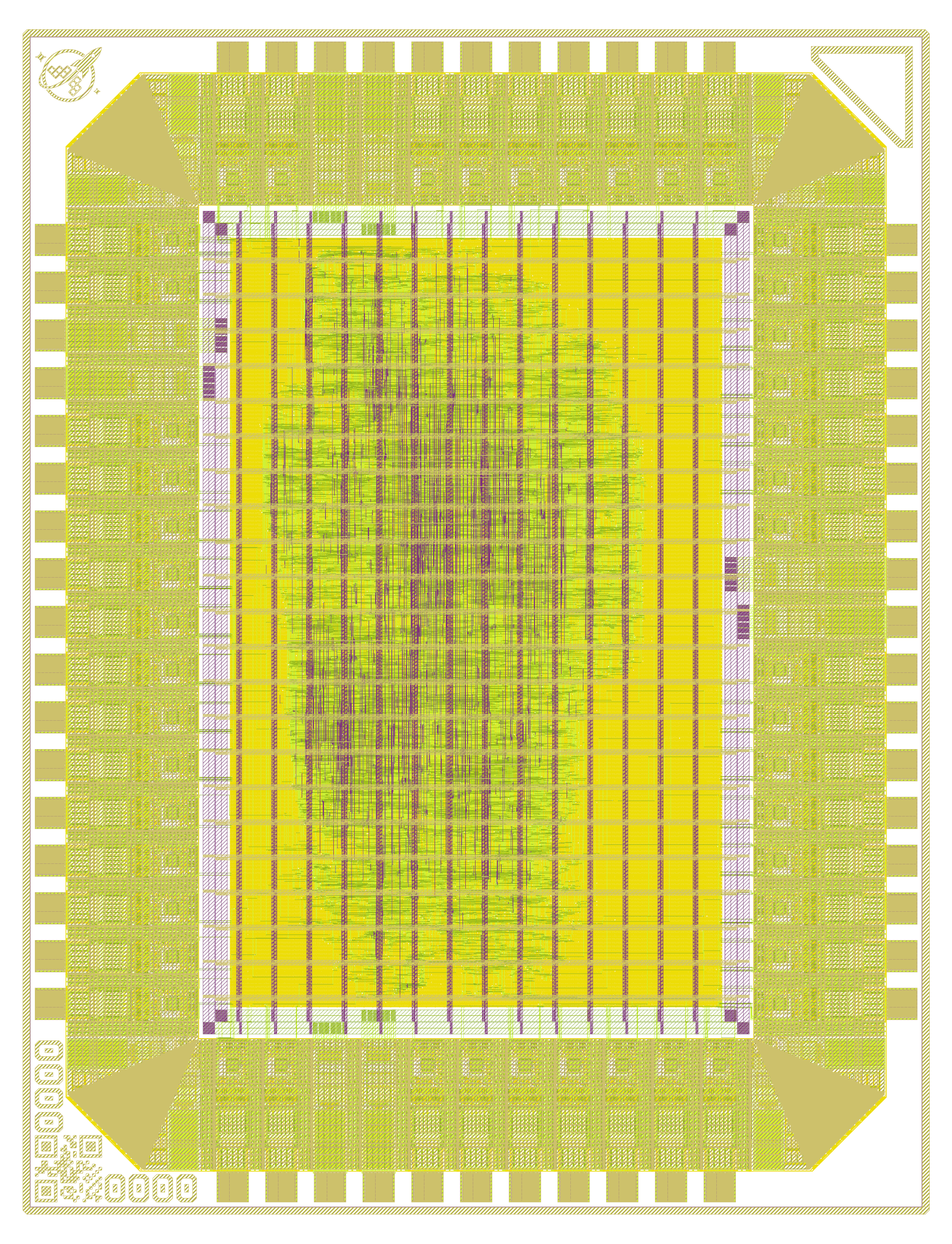
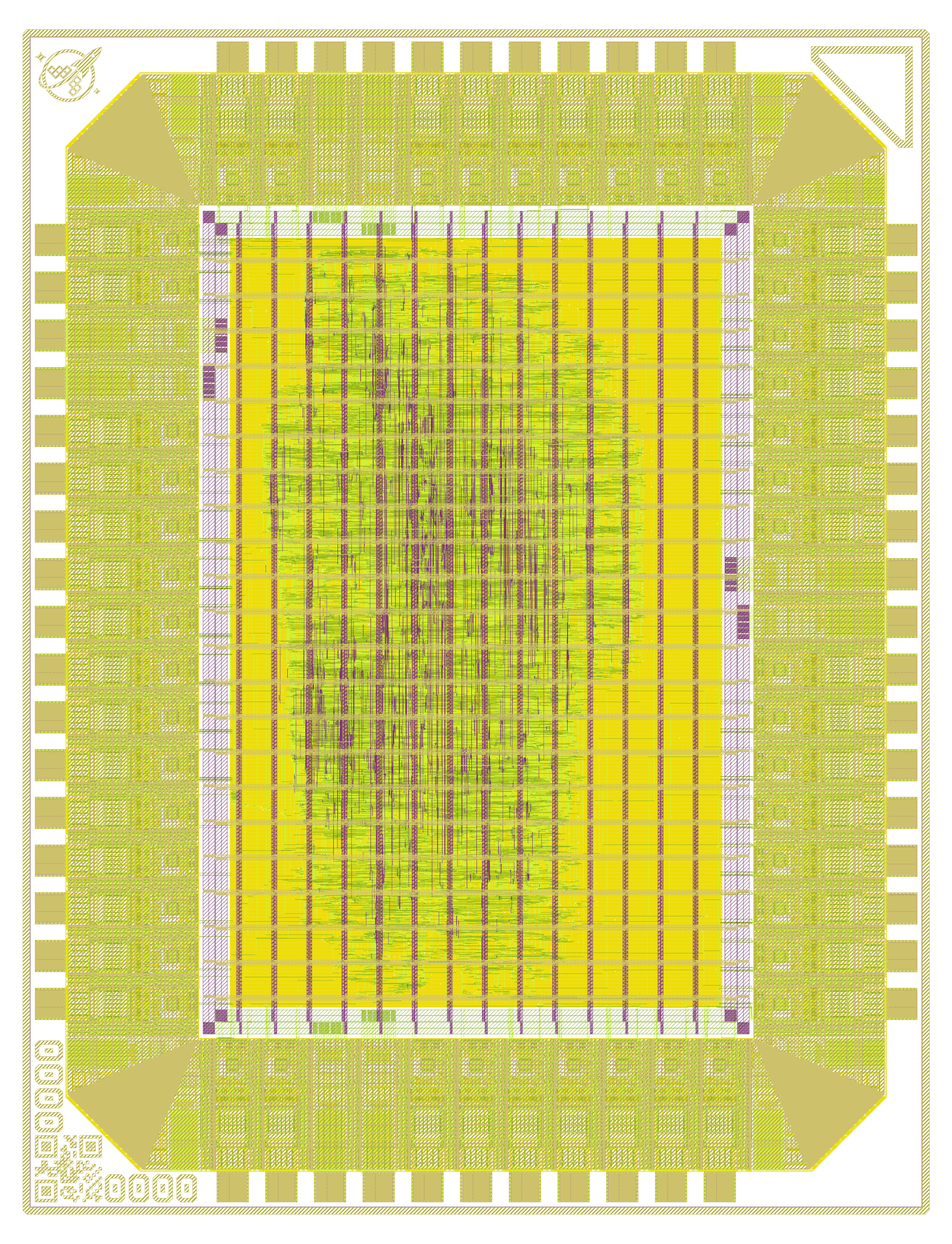
Precheck in its own Nix shell; README results from the run at 8981221
wafer.space's precheck needs qrcode, pillow and procps, which the template's
shell lacks, and a --dir that exists: make precheck now creates it and runs
precheck.py in the precheck repository's own flake shell (pinned by its
commit; its LibreLane is the template's). CI calls it outside the template's
shell. The first CI run of the chip passed everything before it.

README: the flow's results at 8981221 (local and CI agree): 10,756 cells,
243k um2, setup +8.11 ns at tt, -3.95 ns at ss with max wires (about 22 MHz),
hold +0.26 ns or more, sign-off clean, the 4 MHz NMOS pin timing passing all
47 parameters at every corner; against ws0's quarter. The layout image is
that run's. transistor.yml gives the extraction job GitHub's full 6 hours.

Claude-Session: https://claude.ai/code/session_014XmizspwRWA9SEyPJ1W1Jg

diff --git a/README.md b/README.md
@@ -63,22 +63,36 @@ the two cells share their footprint and pins, so the pad keeps its place.
 
 ## Results
 
-A local run of `make librelane` on 2026-10-26, with RESET still on an `in_c`
-pad and before the SDC held WAIT to the datasheet's hold at the CLK pin (CI
-repeats the flow on every push and prints its sign-off and the pin timing in
-the run's summary):
+A local run of `make librelane` on 2026-10-26 at `8981221` (CI repeats the
+flow on every push and prints its sign-off in the run's summary):
 
 | | |
 |---|---|
-| Logic | 10,617 cells, 241k µm² (14 % of the core), 479 flip-flops |
-| Setup slack, 40 ns | typical +8.12 ns · slow -1.73 ns (max wires -3.45) · fast +12.37 ns |
-| Hold slack | +0.31 ns (every corner positive) |
-| Fastest clock | typical ≥ 25 MHz; slow corner (125 °C, 4.5 V) about 21 MHz |
-| Sign-off | route DRC 0, Magic DRC 0, KLayout DRC 0, LVS 0, antenna 0 |
-| NMOS Z80 pin timing, 4 MHz | every parameter met at every corner but ThWAIT(Cf), WAIT's hold at CLK's falling edge (4.8-5.6 ns needed, 0 allowed): `librelane/chip_top.sdc` now constrains it, and CI checks all of them |
+| Logic | 10,756 cells, 243k µm² (14 % of the core), 479 flip-flops |
+| Setup slack, 40 ns | typical +8.11 ns · slow −1.99 ns (max wires −3.95) · fast +11.07 ns |
+| Hold slack | +0.26 ns or more at every corner |
+| Fastest clock | typical: 25 MHz with 8 ns to spare; slow corner (125 °C, 4.5 V, max wires): about 22 MHz |
+| Sign-off | route DRC 0, Magic DRC 0, KLayout DRC 0, LVS 0, antenna 0, XOR 0 |
+| NMOS Z80 pin timing, 4 MHz | PASS at the typical, slow and fast corners: all 47 parameters (`make pin-timing`) |
 
-Against ws0's quarter slot with RZ80 (9-track cells, 24 mA fast pads,
-pins held to the template's 25 MHz budget): about 13 % less logic area (241k against 276k µm²: the 7-track cells), and at the slow corner about 21 MHz against 23 MHz; ws0's quarter signed off at +4.9 ns at the typical corner, this one at +8.1 ns, the bus pads timed against the datasheet instead.
+The flow signs setup off at the typical corner, as the template does, and
+holds at every corner; the slow corner is shown for what it is. At the slow
+corner the half-cycle paths (launched on one clock edge, caught on the
+other) need 44.8 ns, the whole-cycle ones 44.0 ns.
+
+The pins, against the Z8400's AC characteristics at 4 MHz (Zilog PS0178,
+`timing/`), into the datasheet's 100 pF, with the pads as RZ80 simulated
+them at transistor level: every output 1.7-45.7 ns after its CLK edge
+(the limits are 65-150 ns); the opcode's setup TsD(Cr) needs 23.1 ns at the
+slow corner (35 allowed); the tightest margin is WAIT's hold at CLK's falling
+edge, 4.6 ns at the fast corner.
+
+Against ws0's quarter slot with RZ80 (9-track cells, `bi_24t` pads at their
+full drive, the pins held to the template's 25 MHz I/O budget): 12 % less
+logic area (243k µm² against 276k, the 7-track cells), and at the slow
+corner about 22 MHz against 23 MHz. ws0's typical-corner slack, +4.9 ns, is
+an output pad's; here the pins are checked against the datasheet instead,
+and the typical corner's worst path is inside the core, +8.1 ns.
 
 ## Tests
 
